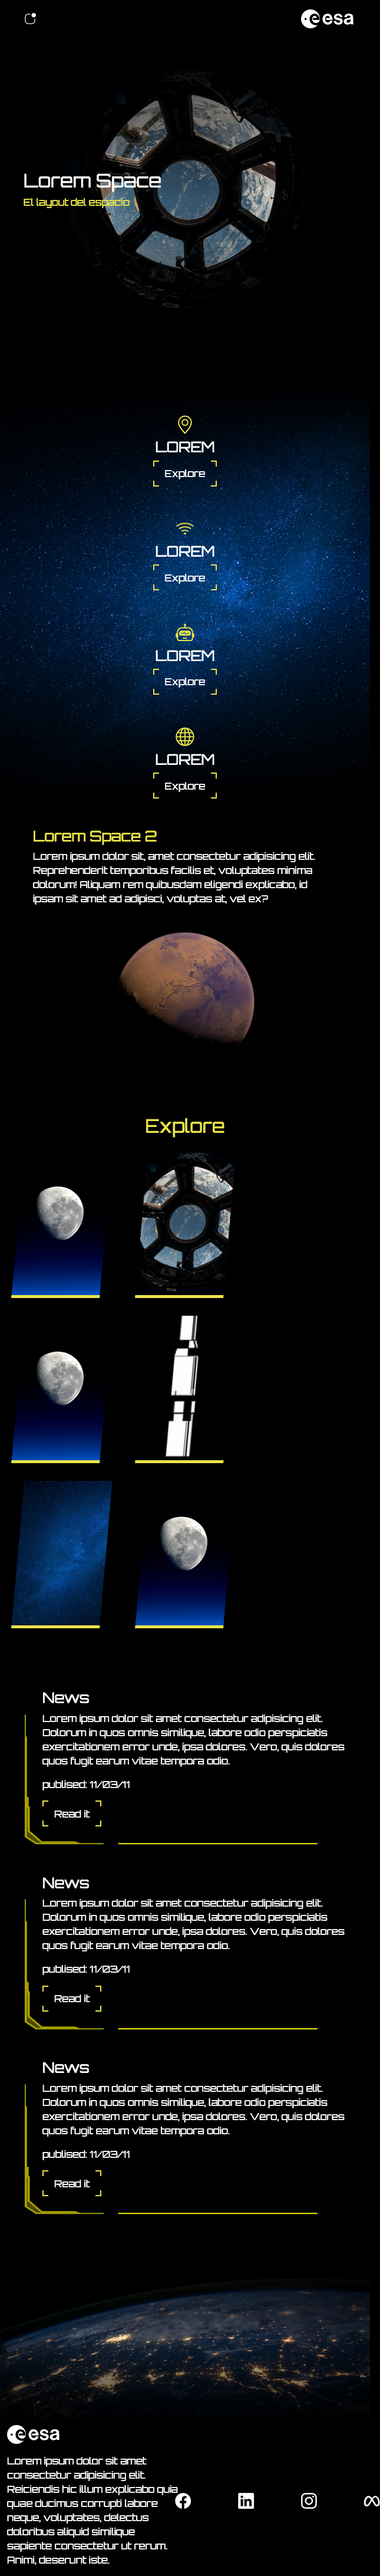
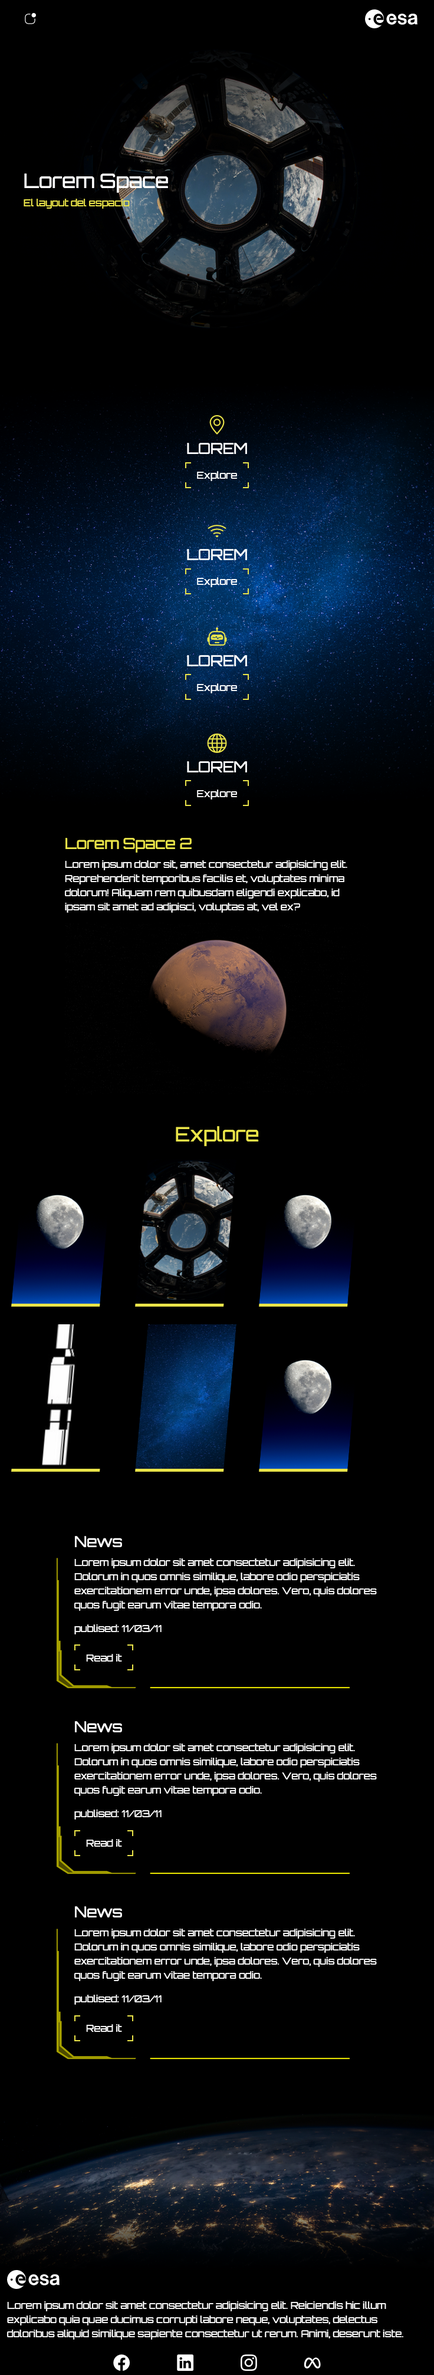
con readme editado

diff --git a/index.html b/index.html
@@ -156,11 +156,11 @@
     <!-- footer -->
     <footer class="container-fluid">
         <div class="row">
-            <div class="col-6">
+            <div class="col-12 col-md-6">
                 <img src="./media/ESA_Logo.svg">
                 <p class="mt-3">Lorem ipsum dolor sit amet consectetur adipisicing elit. Reiciendis hic illum explicabo quia quae ducimus corrupti labore neque, voluptates, delectus doloribus aliquid similique sapiente consectetur ut rerum. Animi, deserunt iste.</p>
             </div>
-            <div class="col-6 d-flex justify-content-center align-items-center">
+            <div class="col-12 col-md-6 d-flex justify-content-center align-items-center">
                 <i class="social-ico fs-2 bi bi-facebook"></i>
                 <i class="social-ico fs-2 bi bi-linkedin"></i>
                 <i class="social-ico fs-2 bi bi-instagram"></i>
